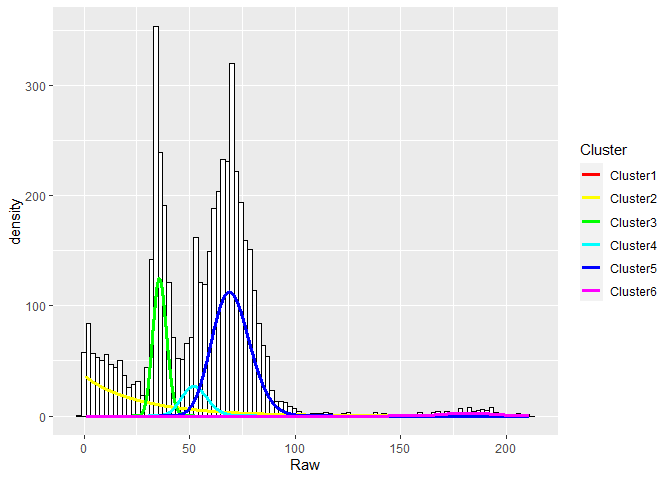
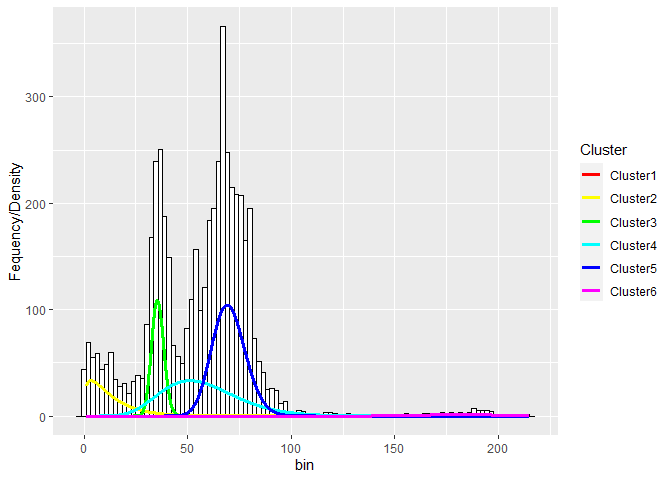
Update axes

diff --git a/CoulterCounterProcessing.html b/CoulterCounterProcessing.html
@@ -401,7 +401,7 @@ hist(yn, breaks = 50)</code></pre>
 <pre class="r"><code>RS=sample(1:length(yn),5000)
 YS=yn[RS]
 hist(YS, breaks=50)</code></pre>
[2 lines of base64/hex data omitted]
 <p>Specify the number of expected groups in the data (excluding the exponential cline of detrital material).</p>
 <pre class="r"><code>g=5</code></pre>
 <p>EM algorithm: Iteratively finding the expected cluster ID for each particle, then find the maximum likelihood estimates of the parameter values for each of the clusters. Store all of this. For this data we are using a mixture of an exponential distribution for the detrital material, and gamma distributions for the populations of interest in the data. We will manually specify the number of populations because in this lab data, we know how many should be there. Of course you can add more if you see interesting features in the data you want to isolate.</p>
@@ -494,8 +494,10 @@ ggplot(YS,aes(x=Raw))+
   geom_histogram(aes(y=..density..),fill=&#39;white&#39;,color=&#39;black&#39;)+
   stat_bin(bins=100,fill=&#39;white&#39;,color=&#39;black&#39;)+
   geom_line(data = pp, aes(x=V3, y=V2, col=V1),lwd=1.1)+
-  scale_color_manual(values=rainbow(g+1),name=&#39;Cluster&#39;)</code></pre>
[1 lines of base64/hex data omitted]
+  scale_color_manual(values=rainbow(g+1),name=&#39;Cluster&#39;)+
+  xlab(&#39;bin&#39;)+
+  ylab(&#39;Fequency/Density&#39;)</code></pre>
[1 lines of base64/hex data omitted]
 <p>If we want to know how many particles belong to each of these distributions, it is just the converged value of the weight for that distribution multiplied by the total particle count.</p>
 <pre class="r"><code>library(formattable)</code></pre>
 <pre><code>## Warning: package &#39;formattable&#39; was built under R version 3.6.3</code></pre>
@@ -530,7 +532,7 @@ Cluster1
 Cluster2
 </td>
 <td style="text-align:right;">
-16763
+9535
 </td>
 </tr>
 <tr>
@@ -538,7 +540,7 @@ Cluster2
 Cluster3
 </td>
 <td style="text-align:right;">
-16700
+13253
 </td>
 </tr>
 <tr>
@@ -546,7 +548,7 @@ Cluster3
 Cluster4
 </td>
 <td style="text-align:right;">
-6746
+24627
 </td>
 </tr>
 <tr>
@@ -554,7 +556,7 @@ Cluster4
 Cluster5
 </td>
 <td style="text-align:right;">
-41593
+34686
 </td>
 </tr>
 <tr>
@@ -562,7 +564,7 @@ Cluster5
 Cluster6
 </td>
 <td style="text-align:right;">
-1263
+964
 </td>
 </tr>
 </tbody>

diff --git a/CoulterCounterProcessing.md b/CoulterCounterProcessing.md
@@ -171,7 +171,9 @@ ggplot(YS,aes(x=Raw))+
   geom_histogram(aes(y=..density..),fill='white',color='black')+
   stat_bin(bins=100,fill='white',color='black')+
   geom_line(data = pp, aes(x=V3, y=V2, col=V1),lwd=1.1)+
-  scale_color_manual(values=rainbow(g+1),name='Cluster')
+  scale_color_manual(values=rainbow(g+1),name='Cluster')+
+  xlab('bin')+
+  ylab('Fequency/Density')
 ```
 
 ![](CoulterCounterProcessing_files/figure-html/unnamed-chunk-7-1.png)<!-- -->
@@ -210,23 +212,23 @@ formattable(Out.table)
   </tr>
   <tr>
    <td style="text-align:right;"> Cluster2 </td>
-   <td style="text-align:right;"> 16763 </td>
+   <td style="text-align:right;"> 9535 </td>
   </tr>
   <tr>
    <td style="text-align:right;"> Cluster3 </td>
-   <td style="text-align:right;"> 16700 </td>
+   <td style="text-align:right;"> 13253 </td>
   </tr>
   <tr>
    <td style="text-align:right;"> Cluster4 </td>
-   <td style="text-align:right;"> 6746 </td>
+   <td style="text-align:right;"> 24627 </td>
   </tr>
   <tr>
    <td style="text-align:right;"> Cluster5 </td>
-   <td style="text-align:right;"> 41593 </td>
+   <td style="text-align:right;"> 34686 </td>
   </tr>
   <tr>
    <td style="text-align:right;"> Cluster6 </td>
-   <td style="text-align:right;"> 1263 </td>
+   <td style="text-align:right;"> 964 </td>
   </tr>
 </tbody>
 </table>
